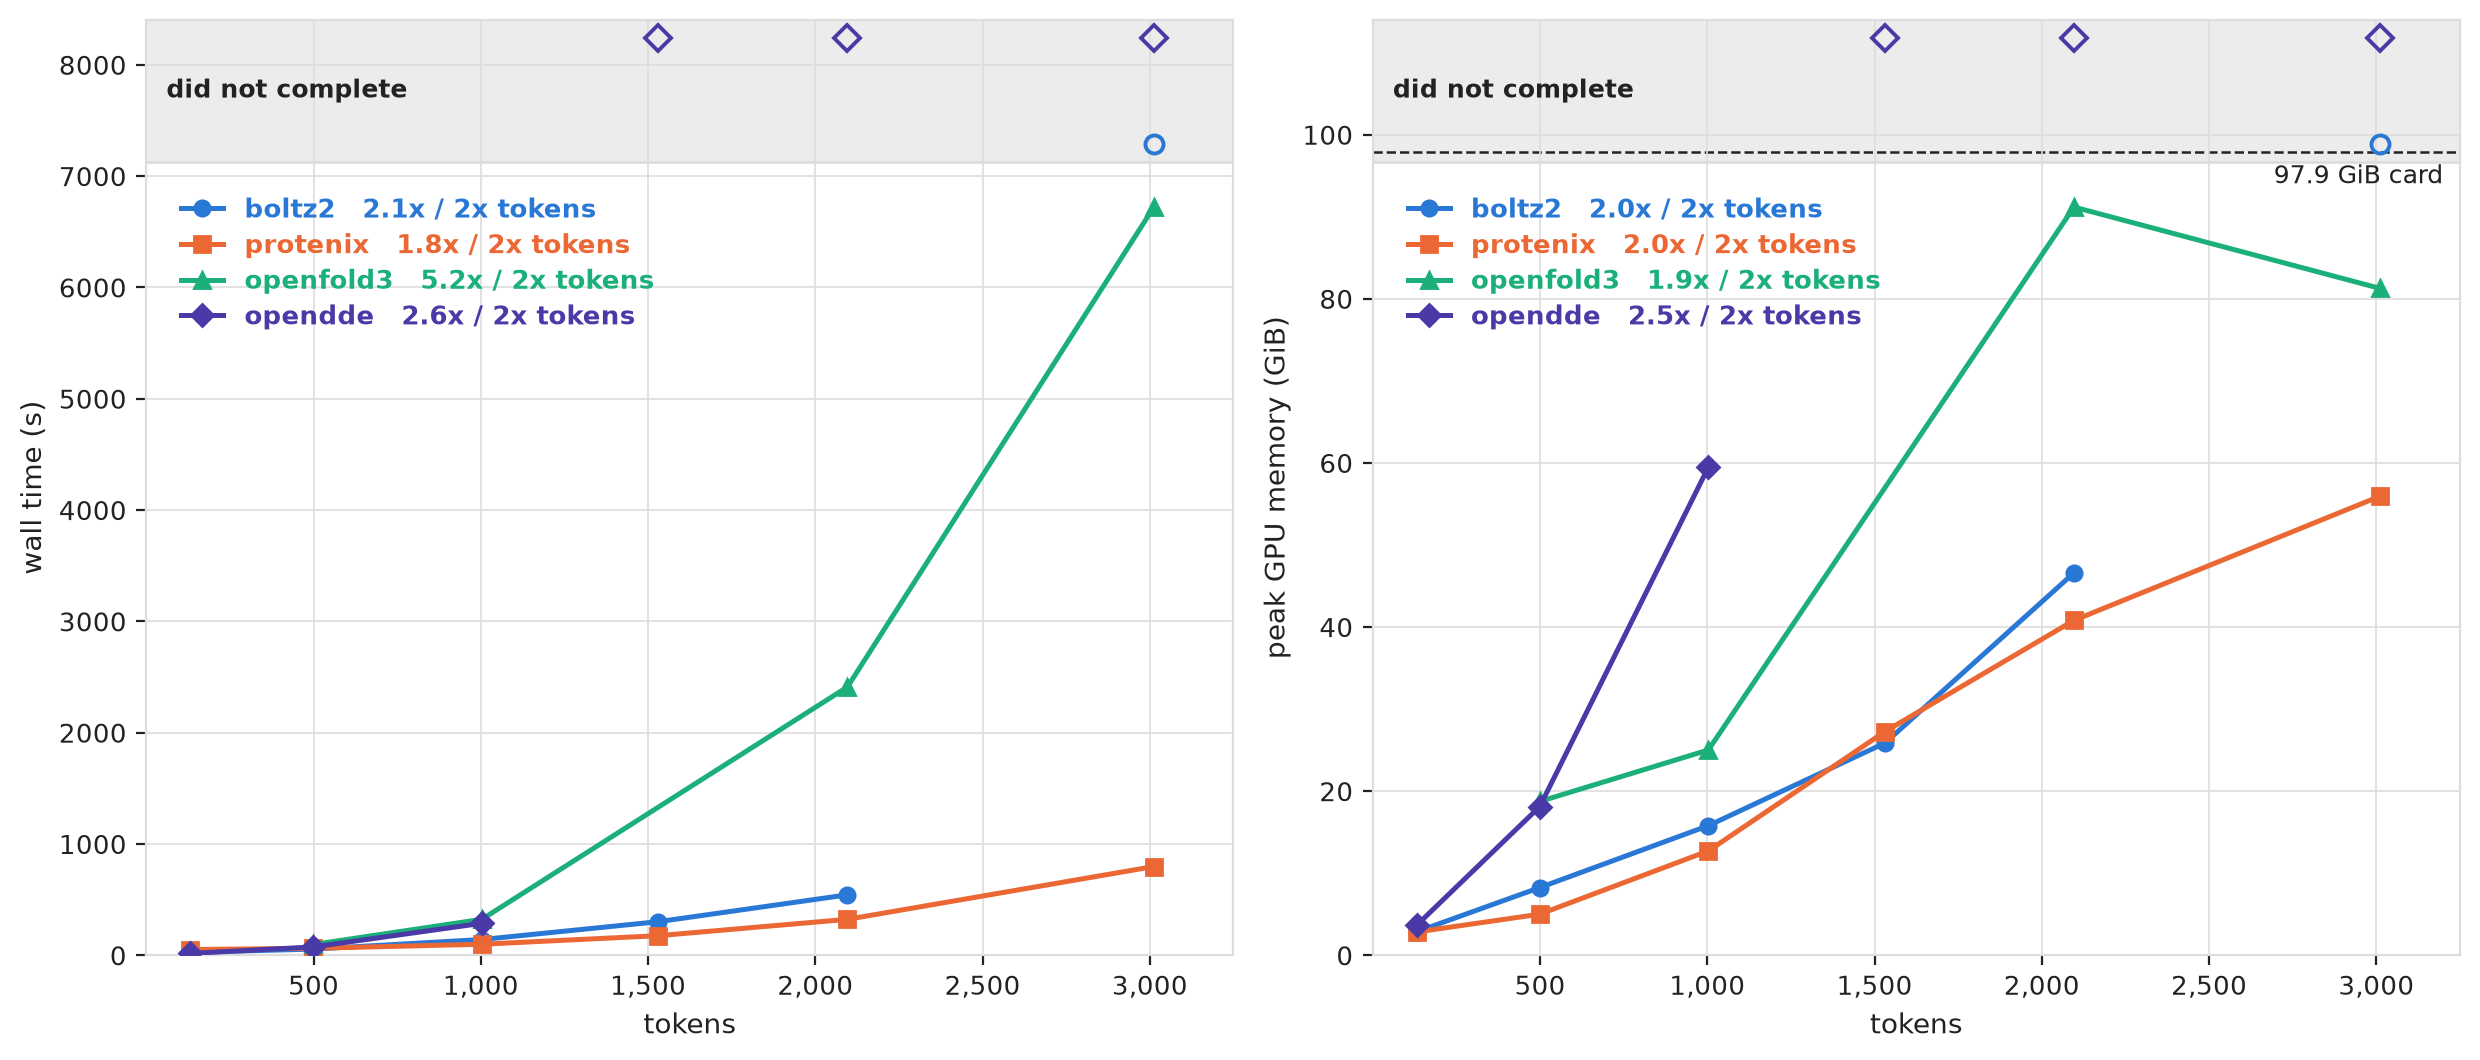
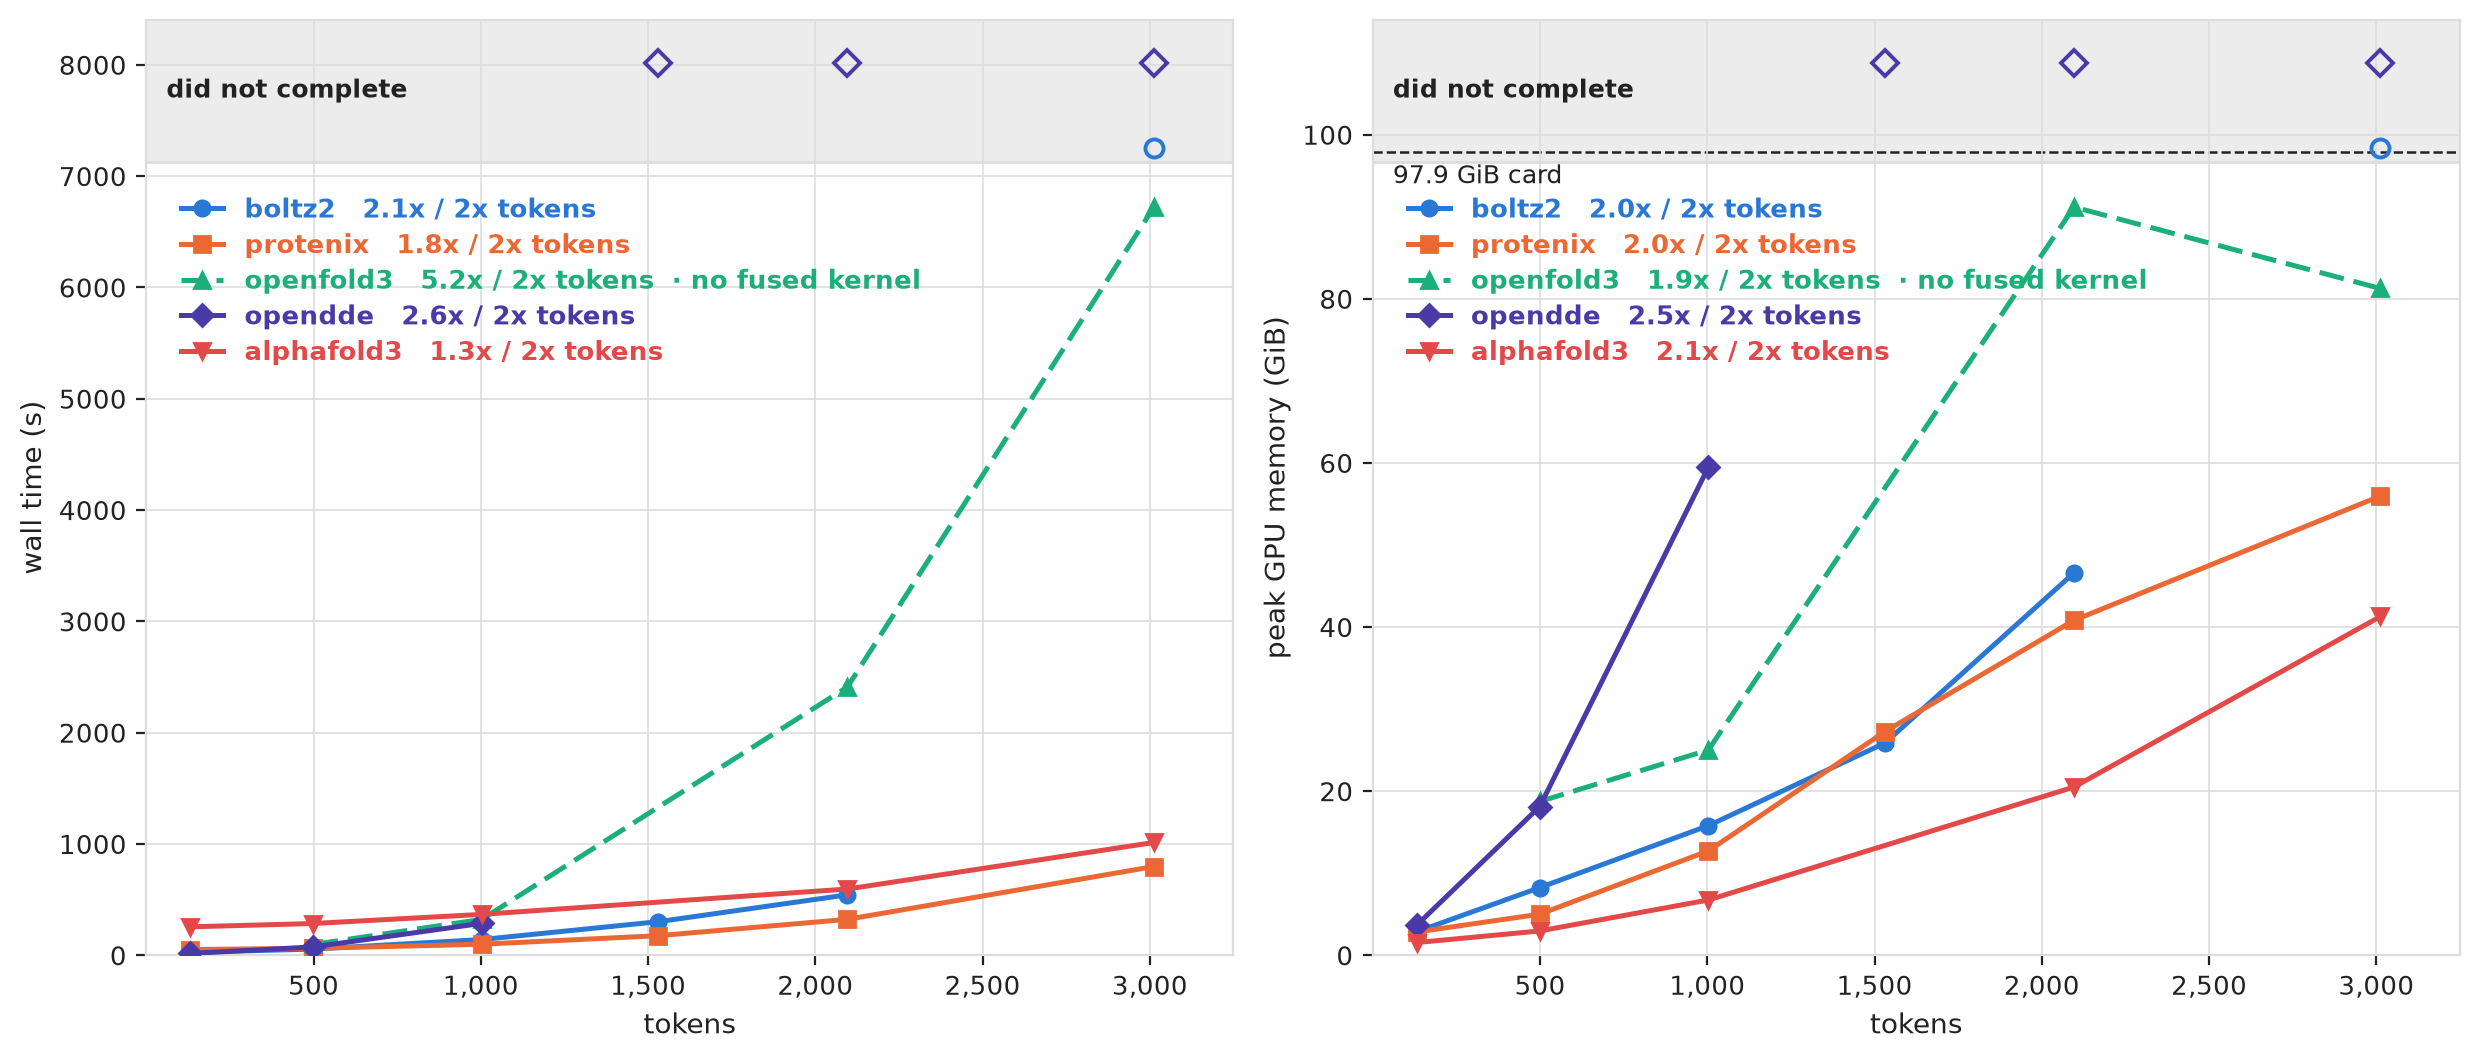
docs: AlphaFold 3 joins the reference-implementation figure; OpenFold3 dashed
AlphaFold 3 belonged in this figure all along and was missing for a bookkeeping
reason rather than a real one. Its measurements sit in the `foldjax` column
because FoldJAX drives the official installation instead of reimplementing it
-- which is exactly why the table leaves its upstream column blank -- so those
rows are upstream AlphaFold 3 running its own code. Read from the other side,
they are the fifth reference implementation. Five hues clear the colour-vision
gates on the adjacent pairlist in both themes, with marker shape and the legend
carrying identity alongside.

It changes the reading. AlphaFold 3 has the highest floor of the five and the
lowest memory at every size: 41.3 GiB at 3,012 tokens where OpenFold3's
upstream needs 83.2 and OpenDDE's has already failed at 1,531.

OpenFold3 is now dashed and labelled "no fused kernel". It is the only series
that could not reach its own released fast path here -- DS4Sci refuses sm_120,
0.3.1's cuEquivariance flag crashes above one diffusion sample -- so it runs
chunked torch attention at every size, and its 6,722 s is that rather than
OpenFold3 as published. Dropping it would delete a real capacity result; drawing
it solid would present a handicapped run as a fair one.

diff --git a/docs/make_scaling_figure.py b/docs/make_scaling_figure.py
@@ -72,15 +72,42 @@ METRICS = (
 #: the light surface needs, where aqua sits below 3:1 contrast.
 UPSTREAM_COLORS = {
     "light": {
-        "boltz2": "#2a78d6", "protenix": "#eb6834",
-        "openfold3": "#1baf7a", "opendde": "#4a3aa7",
+        "boltz2": "#2a78d6", "protenix": "#eb6834", "openfold3": "#1baf7a",
+        "opendde": "#4a3aa7", "alphafold3": "#e34948",
     },
     "dark": {
-        "boltz2": "#3987e5", "protenix": "#d95926",
-        "openfold3": "#199e70", "opendde": "#9085e9",
+        "boltz2": "#3987e5", "protenix": "#d95926", "openfold3": "#199e70",
+        "opendde": "#9085e9", "alphafold3": "#e66767",
     },
 }
-MARKERS = {"boltz2": "o", "protenix": "s", "openfold3": "^", "opendde": "D"}
+MARKERS = {
+    "boltz2": "o", "protenix": "s", "openfold3": "^", "opendde": "D",
+    "alphafold3": "v",
+}
+
+#: Which column holds each model's own reference implementation.
+#:
+#: AlphaFold 3's is the `foldjax` one, and that is not a shortcut: FoldJAX
+#: drives the official installation rather than reimplementing it, so that row
+#: *is* upstream AlphaFold 3 running its own code. It is the same fact that
+#: leaves AlphaFold 3's upstream column blank in the table -- both columns would
+#: be the same program -- read from the other side.
+REFERENCE_IMPL = {
+    "boltz2": "upstream",
+    "protenix": "upstream",
+    "openfold3": "upstream",
+    "opendde": "upstream",
+    "alphafold3": "foldjax",
+}
+
+#: Series that could not reach their own released fast path on this card, drawn
+#: dashed so the figure does not present a handicapped run as a like-for-like
+#: one. OpenFold3's upstream is the only one: DS4Sci's evoformer attention
+#: refuses to build for sm_120 and 0.3.1's experimental cuEquivariance flag
+#: crashes at more than one diffusion sample, so it runs plain torch attention
+#: chunked four rows at a time at every size. That is where its 6,722 s lives.
+#: See `bench/upstream-environments.md`.
+HANDICAPPED = {"openfold3"}
 
 
 def load(results: list[Path]) -> dict:
@@ -335,6 +362,9 @@ def render_upstream(grouped: dict, out: Path, *, theme: str) -> Path:
     palette = UPSTREAM_COLORS[theme]
     models = [name for name in MODELS if name in palette and name in grouped]
 
+    def reference(model):
+        return grouped[model].get(REFERENCE_IMPL[model])
+
     figure, axes = plt.subplots(
         1, len(METRICS), figsize=(12.5, 5.4), dpi=200, facecolor=bg, squeeze=False
     )
@@ -345,7 +375,7 @@ def render_upstream(grouped: dict, out: Path, *, theme: str) -> Path:
         index = 1 if metric == "wall_s" else 2
         top = max(
             (value[index] * scale for model in models
-             for value in grouped[model].get("upstream", {}).get("ok", [])),
+             for value in (reference(model) or {}).get("ok", [])),
             default=1.0,
         )
         del column
@@ -361,7 +391,7 @@ def render_upstream(grouped: dict, out: Path, *, theme: str) -> Path:
 
         handles, labels = [], []
         for order, model in enumerate(models):
-            side = grouped[model].get("upstream")
+            side = reference(model)
             if side is None:
                 continue
             color = palette[model]
@@ -375,11 +405,14 @@ def render_upstream(grouped: dict, out: Path, *, theme: str) -> Path:
                     [value * scale for _, value in points],
                     color=color, linewidth=1.8, marker=MARKERS[model],
                     markersize=5.5, zorder=3,
+                    linestyle=(0, (5, 2)) if model in HANDICAPPED else "-",
                 )
                 fitted = exponent(points)
                 handles.append(line)
                 labels.append(
-                    f"{model}" + (f"   {growth(fitted)} / 2x tokens" if fitted else "")
+                    f"{model}"
+                    + (f"   {growth(fitted)} / 2x tokens" if fitted else "")
+                    + ("  · no fused kernel" if model in HANDICAPPED else "")
                 )
             for slot, tokens in enumerate(side["failed"]):
                 # Staggered by model: two implementations failing at the same
@@ -412,8 +445,8 @@ def render_upstream(grouped: dict, out: Path, *, theme: str) -> Path:
         if metric == "peak_mib":
             axis.axhline(97.9, color=fg, linewidth=0.9, linestyle="--", zorder=1)
             axis.text(
-                3200, 96.4, "97.9 GiB card", color=fg, fontsize=9,
-                va="top", ha="right",
+                60, 96.4, "97.9 GiB card", color=fg, fontsize=9,
+                va="top", ha="left",
             )
         # Upper left, tucked under the failure band: on linear axes every
         # curve leaves that corner empty, and the lower right -- free when

diff --git a/docs/benchmark.md b/docs/benchmark.md
@@ -99,9 +99,21 @@ model kept scaling.
   <img alt="wall time and peak memory against token count for the four upstream implementations" src="upstream-scaling-dark.png">
 </picture>
 
-The same measurements with the FoldJAX column dropped and the four upstreams on
-one pair of axes, where the question is which reference implementation costs
-what. This figure pools the earlier 132-1,531 token sweep as well, which the
+The same measurements with the FoldJAX column dropped and every model's own
+reference implementation on one pair of axes, where the question is which one
+costs what. **AlphaFold 3 is in this figure from its `foldjax` rows**, and that
+is not a substitution: FoldJAX drives the official installation rather than
+reimplementing it, so those rows *are* upstream AlphaFold 3 running its own
+code. It is the same fact that leaves its upstream column blank in the table.
+
+**OpenFold3 is drawn dashed because it is not a like-for-like run.** It is the
+one series that could not reach its own released fast path on this card --
+DS4Sci's evoformer attention refuses to build for sm_120 and 0.3.1's
+experimental cuEquivariance flag crashes above one diffusion sample -- so it
+runs plain torch attention chunked four rows at a time at every size. Its
+6,722 s at 3,012 tokens is that, not OpenFold3 as published. It stays in the
+figure because a size no implementation here reaches on this hardware is a
+result; the dashes stop it being read as a fair comparison. This figure pools the earlier 132-1,531 token sweep as well, which the
 faceted one does not: those runs measured the *same unmodified upstream
 repositories*, so their points belong on the same curve, while FoldJAX's own
 code changed between the two sweeps and its points would not.
